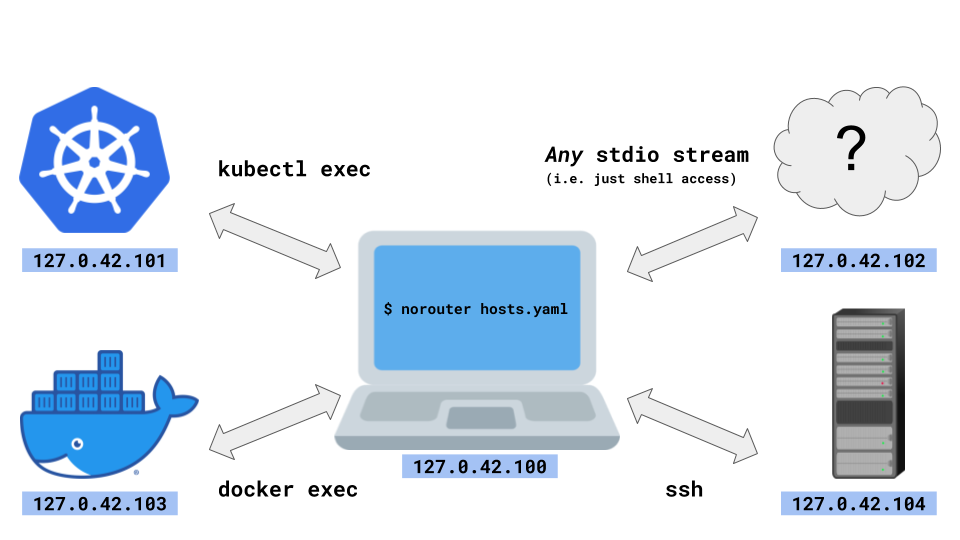
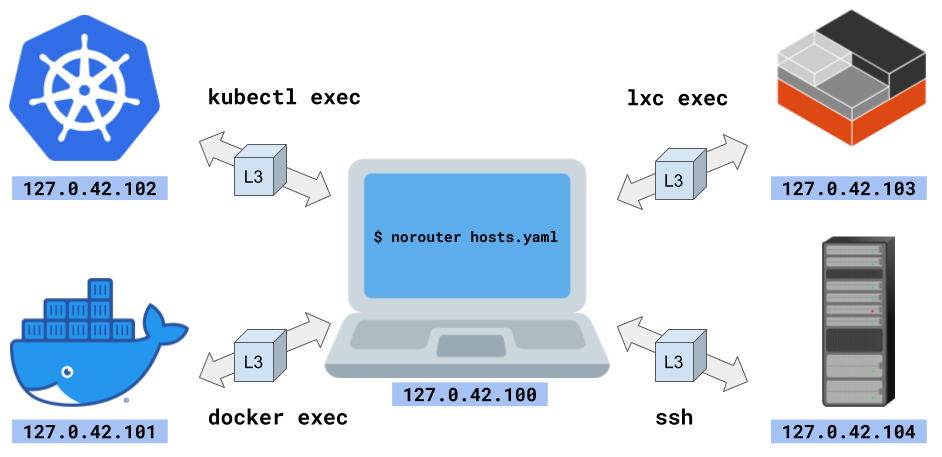
update docs

diff --git a/README.md b/README.md
@@ -72,6 +72,22 @@ hosts:
 
 ```
 
+In the above example, 127.0.42.101:8080 on each host is forwarded to the port 80 of the Docker container.
+
+Try:
+
+```console
+$ curl http://127.0.42.101:8080
+$ docker exec some-container curl http://127.0.42.101:8080
+$ kubectl --context=some-context exec some-pod -- curl http://127.0.42.101:8080
+$ lxc exec some-container -- curl http://127.0.42.101:8080
+$ ssh some-user@some-ssh-host.example.com -- curl http://127.0.42.101:8080
+```
+
+Similarly, 127.0.42.102:8080 is forwarded to the port 80 of the Kubernetes Pod,
+127.0.42.103:8080 is forwarderd to the port 80 of the LXD container,
+and 127.0.42.104:8080 is forwarded to the port 80 of `some-ssh-host.example.com`.
+
 See [Documentation](#documentation) for the further information.
 
 ## Documentation
